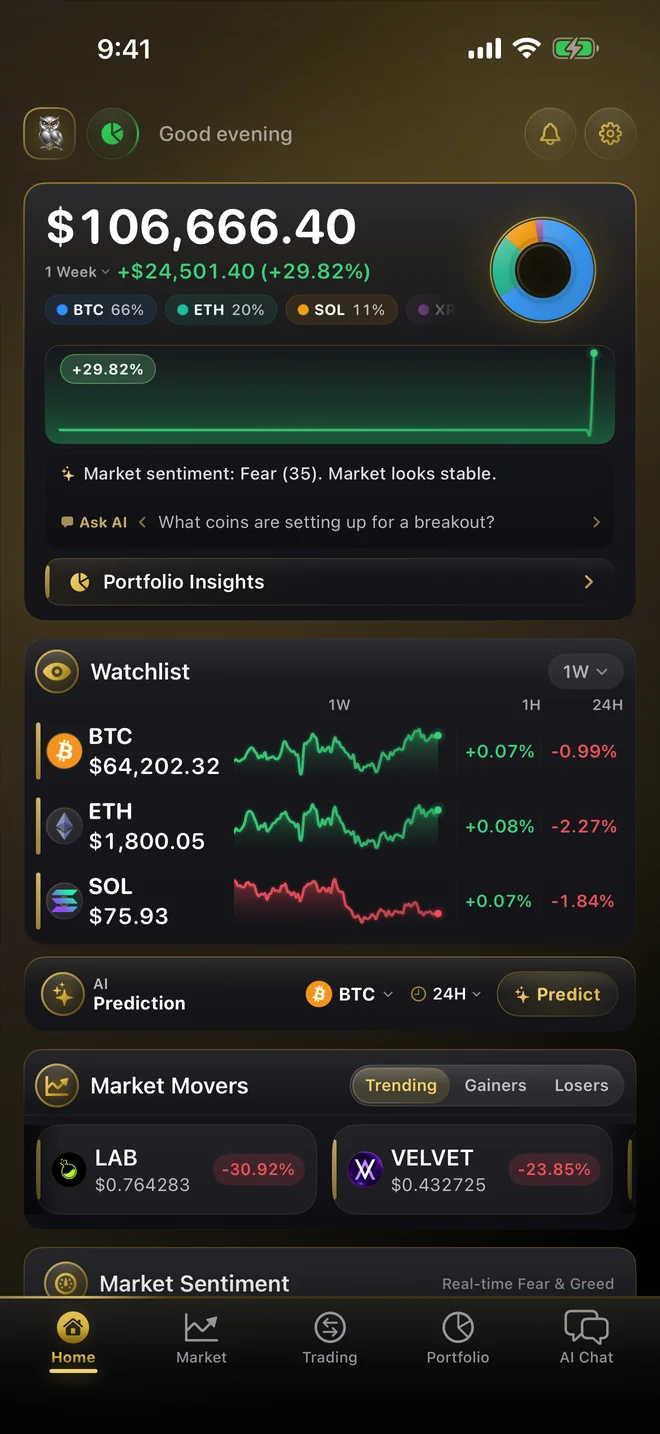
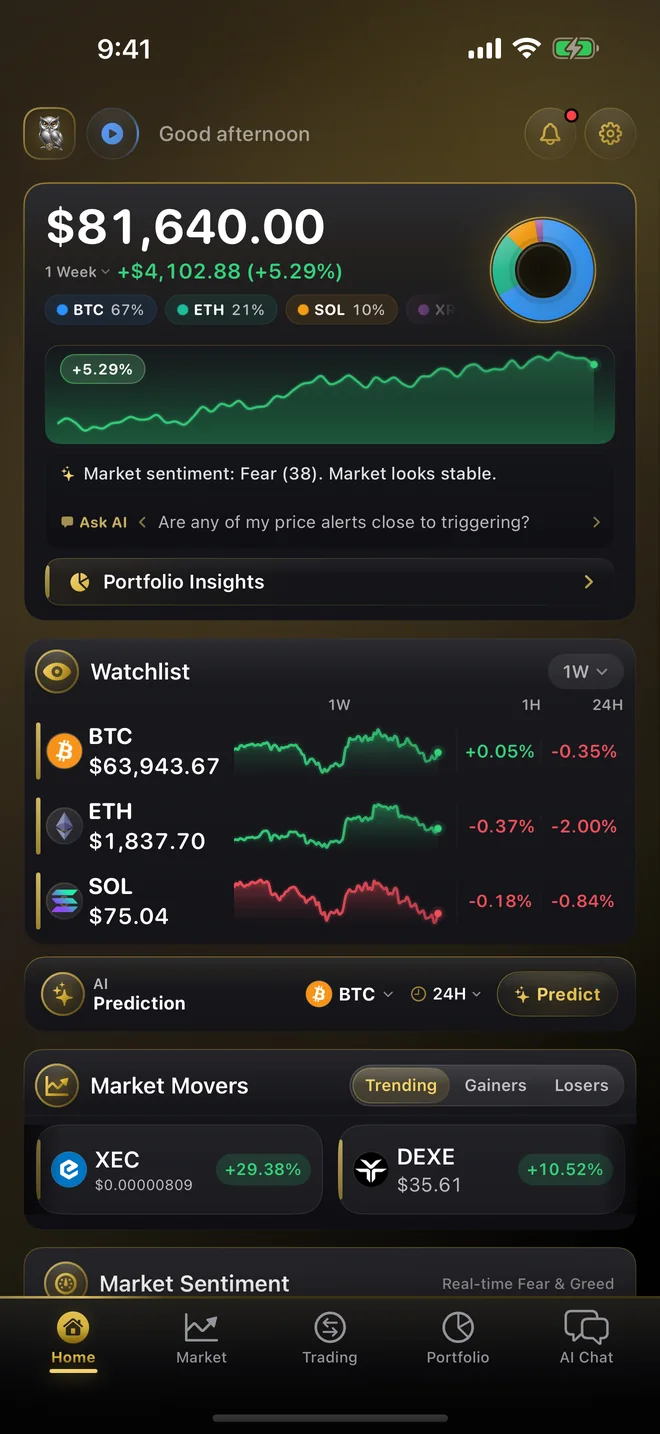
Hero: replace broken flat portfolio sparkline; align sentiment slide with its caption
hero-home slide 1 was showing the old sparkline-bug capture (flat green
line that spikes vertically at the right edge). Repointed it to the clean
home-overview capture with a healthy weekly line chart. hero-sentiment
slide 3 was another home-overview image despite its "market sentiment
gauge" alt text; replaced with the actual Market Sentiment gauge screen so
all 8 hero slides are visually distinct and match their captions. Bumped
hero cache-bust to v=20260719c so browsers refetch the updated webp files.

diff --git a/index.html b/index.html
@@ -887,14 +887,14 @@
         <div class="hero-phone-wrap">
           <div class="hero-phone-frame">
             <div class="phone-screen hero-rotator">
-              <img src="hero-home-dark.webp?v=20260719b" alt="CryptoSage AI home dashboard with portfolio value, watchlist and market movers" class="hero-slide hs-1" loading="eager">
-              <img src="hero-portfolio-dark.webp?v=20260719b" alt="CryptoSage AI portfolio allocation donut chart with holdings" class="hero-slide hs-2" loading="eager">
-              <img src="hero-sentiment-dark.webp?v=20260719b" alt="CryptoSage AI market sentiment gauge with AI sentiment analysis" class="hero-slide hs-3" loading="eager">
-              <img src="hero-aichat-dark.webp?v=20260719b" alt="CryptoSage AI chat staging a trade with a one-tap action card" class="hero-slide hs-4" loading="eager">
-              <img src="hero-technicals-dark.webp?v=20260719b" alt="CryptoSage AI technical analysis chart with consensus gauge" class="hero-slide hs-5" loading="eager">
-              <img src="hero-heatmap-dark.webp?v=20260719b" alt="CryptoSage AI market heat map treemap" class="hero-slide hs-6" loading="eager">
-              <img src="hero-news-dark.webp?v=20260719b" alt="CryptoSage AI crypto news feed" class="hero-slide hs-7" loading="eager">
-              <img src="hero-coin-dark.webp?v=20260719b" alt="CryptoSage AI Bitcoin coin detail page with chart and AI trading signal" class="hero-slide hs-8" loading="eager">
+              <img src="hero-home-dark.webp?v=20260719c" alt="CryptoSage AI home dashboard with portfolio value, watchlist and market movers" class="hero-slide hs-1" loading="eager">
+              <img src="hero-portfolio-dark.webp?v=20260719c" alt="CryptoSage AI portfolio allocation donut chart with holdings" class="hero-slide hs-2" loading="eager">
+              <img src="hero-sentiment-dark.webp?v=20260719c" alt="CryptoSage AI market sentiment gauge with AI sentiment analysis" class="hero-slide hs-3" loading="eager">
+              <img src="hero-aichat-dark.webp?v=20260719c" alt="CryptoSage AI chat staging a trade with a one-tap action card" class="hero-slide hs-4" loading="eager">
+              <img src="hero-technicals-dark.webp?v=20260719c" alt="CryptoSage AI technical analysis chart with consensus gauge" class="hero-slide hs-5" loading="eager">
+              <img src="hero-heatmap-dark.webp?v=20260719c" alt="CryptoSage AI market heat map treemap" class="hero-slide hs-6" loading="eager">
+              <img src="hero-news-dark.webp?v=20260719c" alt="CryptoSage AI crypto news feed" class="hero-slide hs-7" loading="eager">
+              <img src="hero-coin-dark.webp?v=20260719c" alt="CryptoSage AI Bitcoin coin detail page with chart and AI trading signal" class="hero-slide hs-8" loading="eager">
             </div>
           </div>
         </div>
